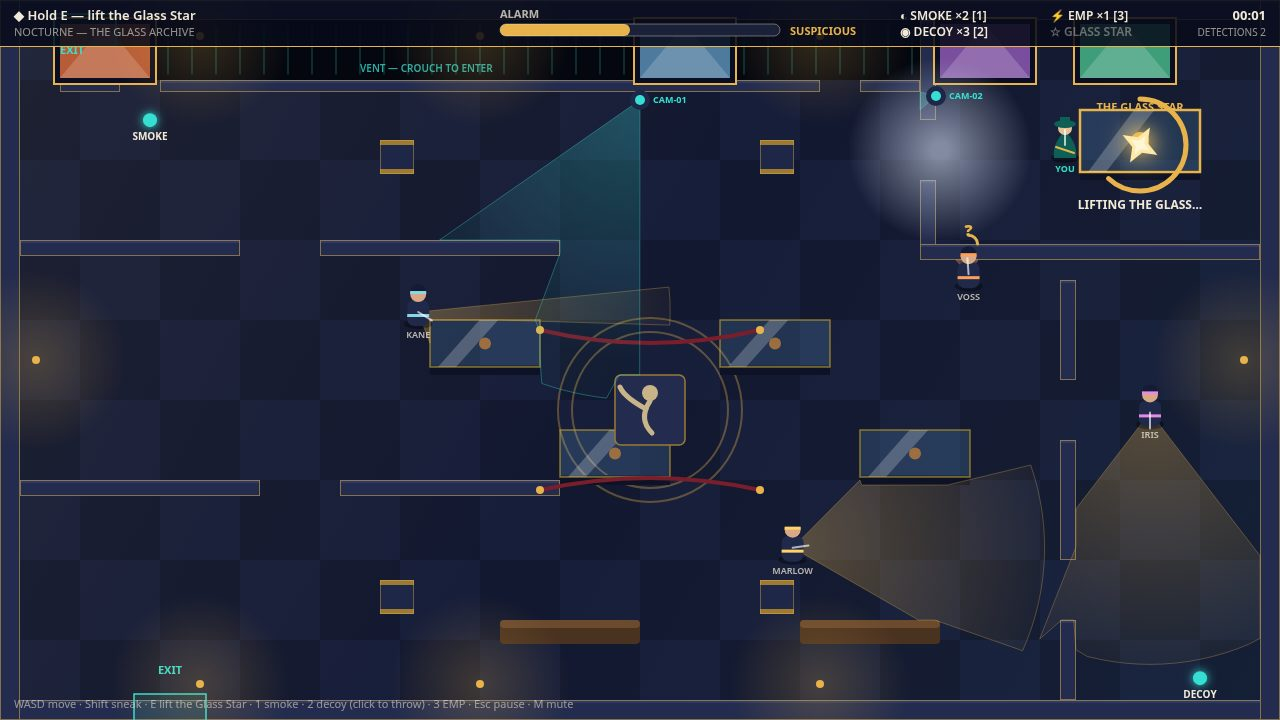
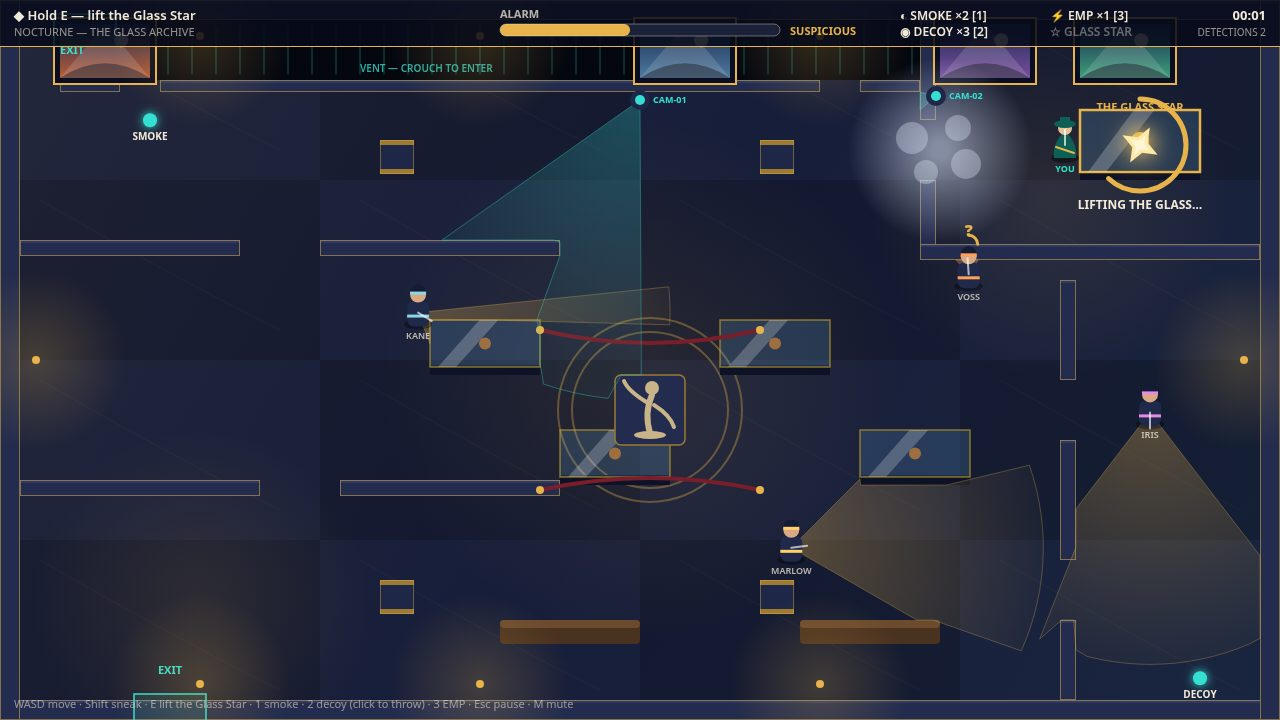
Review fixes: Voss patrol clear of case, escape shot staged mid-chase, marble floor + painted frames, dancer statue, smoke swirls, dead code removed

diff --git a/game/src/render.js b/game/src/render.js
@@ -2,7 +2,7 @@
 // Art direction: midnight-blue marble, warm gold light, turquoise surveillance,
 // red alarm. Safe cover reads as solid and dark; danger reads as light cones.
 
-import { CANVAS_W, CANVAS_H, PALETTE, WIN_RANKS } from './config.js';
+import { CANVAS_W, CANVAS_H, PALETTE } from './config.js';
 import { WALLS, OBSTACLES, FRAMES, ARTIFACT, EXITS, VENT } from './level.js';
 
 function rr(ctx, x, y, w, h, r) {
@@ -61,11 +61,30 @@ export function drawGame(ctx, game) {
 }
 
 function drawFloor(ctx, game) {
-  for (let ty = 0; ty < 9; ty++) {
-    for (let tx = 0; tx < 16; tx++) {
+  // Large low-contrast marble slabs (320x180), not a chessboard: the floor
+  // should read as one polished surface, not a grid of tiles.
+  for (let ty = 0; ty < 4; ty++) {
+    for (let tx = 0; tx < 4; tx++) {
       ctx.fillStyle = (tx + ty) % 2 === 0 ? PALETTE.floorA : PALETTE.floorB;
-      ctx.fillRect(tx * 80, ty * 80, 80, 80);
+      ctx.fillRect(tx * 320, ty * 180, 320, 180);
+      // faint vein in each slab
+      ctx.strokeStyle = 'rgba(232,179,75,0.05)';
+      ctx.lineWidth = 1;
+      ctx.beginPath();
+      ctx.moveTo(tx * 320 + 40, ty * 180 + 20);
+      ctx.quadraticCurveTo(tx * 320 + 160, ty * 180 + 90, tx * 320 + 280, ty * 180 + 150);
+      ctx.stroke();
     }
+  }
+  // warm light pools: the gallery, the vault approach, the lobby
+  for (const [lx, ly, lr] of [[640, 380, 260], [1050, 200, 180], [200, 600, 170]]) {
+    const pool = ctx.createRadialGradient(lx, ly, 10, lx, ly, lr);
+    pool.addColorStop(0, 'rgba(232,179,75,0.10)');
+    pool.addColorStop(1, 'rgba(232,179,75,0)');
+    ctx.fillStyle = pool;
+    ctx.beginPath();
+    ctx.arc(lx, ly, lr, 0, Math.PI * 2);
+    ctx.fill();
   }
   // polished sheen: a soft diagonal gold wash
   const sheen = ctx.createLinearGradient(0, 0, CANVAS_W, CANVAS_H);
@@ -114,14 +133,29 @@ function drawVent(ctx) {
 
 function drawFrames(ctx) {
   for (const f of FRAMES) {
+    // Gilded frame with a small painted landscape inside, not a flat colour:
+    // sky, a sun or moon, and a hill line, so it reads as a painting.
     ctx.fillStyle = '#0A0E22';
     ctx.fillRect(f.x - 6, f.y - 6, f.w + 12, f.h + 12);
     ctx.strokeStyle = PALETTE.gold;
     ctx.lineWidth = 2;
     ctx.strokeRect(f.x - 6, f.y - 6, f.w + 12, f.h + 12);
-    ctx.fillStyle = f.hue;
+    const sky = ctx.createLinearGradient(f.x, f.y, f.x, f.y + f.h);
+    sky.addColorStop(0, '#1B2A52');
+    sky.addColorStop(1, f.hue);
+    ctx.fillStyle = sky;
     ctx.fillRect(f.x, f.y, f.w, f.h);
-    ctx.fillStyle = 'rgba(255,255,255,0.18)';
+    ctx.fillStyle = 'rgba(242,234,216,0.85)';
+    ctx.beginPath();
+    ctx.arc(f.x + f.w * 0.68, f.y + f.h * 0.3, 7, 0, Math.PI * 2);
+    ctx.fill();
+    ctx.fillStyle = 'rgba(7,11,26,0.55)';
+    ctx.beginPath();
+    ctx.moveTo(f.x, f.y + f.h);
+    ctx.quadraticCurveTo(f.x + f.w * 0.5, f.y + f.h * 0.45, f.x + f.w, f.y + f.h);
+    ctx.closePath();
+    ctx.fill();
+    ctx.fillStyle = 'rgba(255,255,255,0.14)';
     ctx.beginPath();
     ctx.moveTo(f.x, f.y + f.h);
     ctx.lineTo(f.x + f.w * 0.5, f.y);
@@ -206,21 +240,29 @@ function drawObstacles(ctx, game, t) {
       ctx.lineWidth = 1.5;
       rr(ctx, o.x, o.y, o.w, o.h, 6);
       ctx.stroke();
-      // abstract dancer figure
+      // "The Dancer": a graceful figure, one arm raised, on a round base.
       ctx.fillStyle = '#C9B48A';
       ctx.beginPath();
-      ctx.arc(o.x + o.w / 2, o.y + 18, 8, 0, Math.PI * 2);
+      ctx.ellipse(o.x + o.w / 2, o.y + o.h - 10, 16, 4, 0, 0, Math.PI * 2);
       ctx.fill();
       ctx.strokeStyle = '#C9B48A';
-      ctx.lineWidth = 5;
+      ctx.lineWidth = 6;
       ctx.lineCap = 'round';
       ctx.beginPath();
-      ctx.moveTo(o.x + o.w / 2, o.y + 26);
-      ctx.quadraticCurveTo(o.x + o.w / 2 - 12, o.y + 44, o.x + o.w / 2 + 2, o.y + 58);
+      ctx.moveTo(o.x + o.w / 2, o.y + o.h - 12);
+      ctx.quadraticCurveTo(o.x + o.w / 2 - 6, o.y + 38, o.x + o.w / 2 + 2, o.y + 20);
       ctx.stroke();
       ctx.beginPath();
-      ctx.moveTo(o.x + o.w / 2 - 4, o.y + 34);
-      ctx.quadraticCurveTo(o.x + o.w / 2 - 26, o.y + 22, o.x + o.w / 2 - 30, o.y + 12);
+      ctx.arc(o.x + o.w / 2 + 2, o.y + 13, 7, 0, Math.PI * 2);
+      ctx.fill();
+      ctx.lineWidth = 4;
+      ctx.beginPath();
+      ctx.moveTo(o.x + o.w / 2 - 2, o.y + 28);
+      ctx.quadraticCurveTo(o.x + o.w / 2 - 22, o.y + 16, o.x + o.w / 2 - 26, o.y + 6);
+      ctx.stroke();
+      ctx.beginPath();
+      ctx.moveTo(o.x + o.w / 2 + 4, o.y + 30);
+      ctx.quadraticCurveTo(o.x + o.w / 2 + 20, o.y + 40, o.x + o.w / 2 + 24, o.y + 52);
       ctx.stroke();
     } else if (o.kind === 'bench') {
       ctx.fillStyle = '#4A3220';
@@ -323,6 +365,13 @@ function drawSmokes(ctx, game) {
     ctx.beginPath();
     ctx.arc(s.x, s.y, s.radius, 0, Math.PI * 2);
     ctx.fill();
+    // inner swirls so the cloud reads as smoke, not a flat blob
+    ctx.fillStyle = 'rgba(220,228,245,0.35)';
+    for (const [dx, dy, r] of [[-28, -12, 16], [18, -22, 13], [26, 14, 15], [-14, 22, 12]]) {
+      ctx.beginPath();
+      ctx.arc(s.x + dx, s.y + dy, r, 0, Math.PI * 2);
+      ctx.fill();
+    }
   }
 }
 
@@ -743,8 +792,8 @@ function drawLost(ctx, game) {
   ctx.font = '13px system-ui, sans-serif';
   ctx.fillText('The cones are honest: watch them sweep, move between beats,', 640, 326);
   ctx.fillText('crouch behind the cases, and spend a decoy before you cross open floor.', 640, 348);
-  const pulse = 0.6 + 0.4 * Math.sin(game.now * 3);
+  const pulse = 0.75 + 0.25 * Math.sin(game.now * 3);
   ctx.fillStyle = `rgba(232,179,75,${pulse})`;
-  ctx.font = '700 16px system-ui, sans-serif';
+  ctx.font = '700 18px system-ui, sans-serif';
   ctx.fillText('PRESS R TO TRY AGAIN', 640, 420);
 }

diff --git a/game/src/level.js b/game/src/level.js
@@ -19,12 +19,8 @@ export const ROOMS = {
   vault: { exits: [{ to: 'gallery' }, { to: 'corridor' }, { to: 'vent' }], grants: 'artifact' },
 };
 
-export const BEATS = [
-  { room: 'entry', type: 'teach', intensity: 0.1 },
-  { room: 'gallery', type: 'develop', intensity: 0.5 },
-  { room: 'vault', type: 'twist', intensity: 0.8 },
-  { room: 'escape', type: 'climax', intensity: 1.0 },
-];
+// Rooms: the museum is a small graph, so the player can always reach the
+// vault and both exits. goalReachable() (BFS over ROOMS) asserts this at boot.
 
 // BFS over (room, held keys): the goal must be reachable from the start.
 export function goalReachable(rooms, start, goal) {
@@ -100,10 +96,9 @@ export const OBSTACLES = [
 export const FRAMES = [
   { x: 60, y: 24, w: 90, h: 54, hue: '#B85C38' },
   { x: 640, y: 24, w: 90, h: 54, hue: '#4E7A9E' },
-  { x: 300, y: 244, w: 0, h: 0, hue: '' }, // placeholder removed below
   { x: 940, y: 24, w: 90, h: 54, hue: '#7A4E9E' },
   { x: 1080, y: 24, w: 90, h: 54, hue: '#3E9E7A' },
-].filter((f) => f.w > 0);
+];
 
 export const GUARD_PATROLS = [
   {
@@ -114,8 +109,10 @@ export const GUARD_PATROLS = [
   },
   {
     name: 'Voss', color: '#FF9F5A',
-    // Tight loop guarding the vault door approach.
-    waypoints: [[980, 300], [980, 520], [1020, 520], [1020, 300]],
+    // Tight loop guarding the vault door approach. West leg at x=1000: the
+    // display case ends at x=970 and the guard's radius is 14, so x=980
+    // would freeze him against the case on every loop.
+    waypoints: [[1000, 300], [1000, 520], [1020, 520], [1020, 300]],
   },
   {
     name: 'Iris', color: '#E58AE5',

diff --git a/game/src/shots.js b/game/src/shots.js
@@ -47,11 +47,12 @@ export function applyShotPreset(game, name) {
     game.objective = 'Hold E — lift the Glass Star';
   } else if (name === 'escape') {
     // The getaway: artifact held, a guard chasing, alarm ALERT, one camera dark.
-    // The guard starts far enough back that the chase reads on camera without
-    // catching the thief inside the first second.
-    p.x = 560; p.y = 600; p.crouch = false; p.hasArtifact = true;
-    g1.x = 860; g1.y = 400; g1.facing = -Math.PI * 0.6; g1.state = 'chase';
-    g1.suspicion = 100; g1.lastSeen = { x: 560, y: 600 }; g1.loseSightAt = game.now + 30;
+    // The guard starts ~590px back at 235px/s (ALERT boost), so the frame is
+    // caught mid-chase: the shot is taken ~1.5s after the first frame, well
+    // before he can close the gap.
+    p.x = 500; p.y = 620; p.crouch = false; p.hasArtifact = true;
+    g1.x = 1000; g1.y = 300; g1.facing = Math.PI * 0.82; g1.state = 'chase';
+    g1.suspicion = 100; g1.lastSeen = { x: 500, y: 620 }; g1.loseSightAt = game.now + 30;
     g2.x = 880; g2.y = 300; g2.facing = Math.PI; g2.wp = 3;
     g3.x = 1150; g3.y = 640; g3.facing = -Math.PI / 2; g3.wp = 1;
     g4.x = 150; g4.y = 560; g4.facing = 0; g4.wp = 0;

diff --git a/game/src/vision.js b/game/src/vision.js
@@ -16,28 +16,6 @@ export function rayHit(ox, oy, dx, dy, segments, maxDist) {
   return best;
 }
 
-// Visibility polygon from a point: cast one ray per segment endpoint (+/- epsilon).
-export function visibilityPolygon(ox, oy, segments, maxDist) {
-  const angles = new Set();
-  for (const s of segments) {
-    for (const [px, py] of [[s.ax, s.ay], [s.bx, s.by]]) {
-      const a = Math.atan2(py - oy, px - ox);
-      angles.add(a - 0.0002);
-      angles.add(a);
-      angles.add(a + 0.0002);
-    }
-  }
-  const pts = [];
-  for (const a of angles) {
-    const dx = Math.cos(a);
-    const dy = Math.sin(a);
-    const t = rayHit(ox, oy, dx, dy, segments, maxDist);
-    pts.push([ox + dx * t, oy + dy * t, a]);
-  }
-  pts.sort((p, q) => p[2] - q[2]);
-  return pts.map(([x, y]) => [x, y]);
-}
-
 // Wedge (facing +/- fov/2, out to range) clipped by what the walls allow.
 export function conePolygon(ox, oy, facing, fov, range, segments) {
   const steps = 26;

diff --git a/game/src/entities.js b/game/src/entities.js
@@ -70,8 +70,6 @@ export class Player {
   }
 }
 
-const GUARD_STATES = ['patrol', 'suspicious', 'investigate', 'chase', 'search', 'return'];
-
 export class Guard {
   constructor(def) {
     this.name = def.name;
